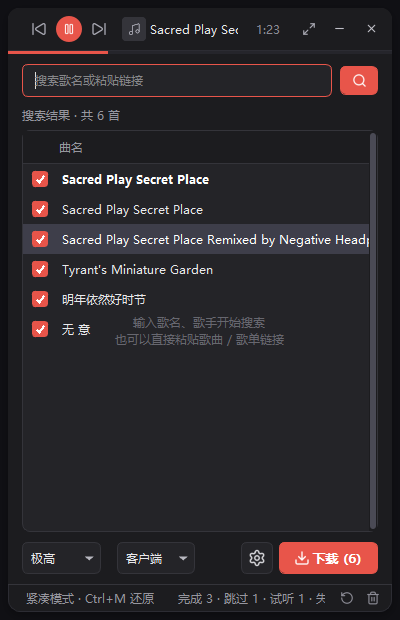
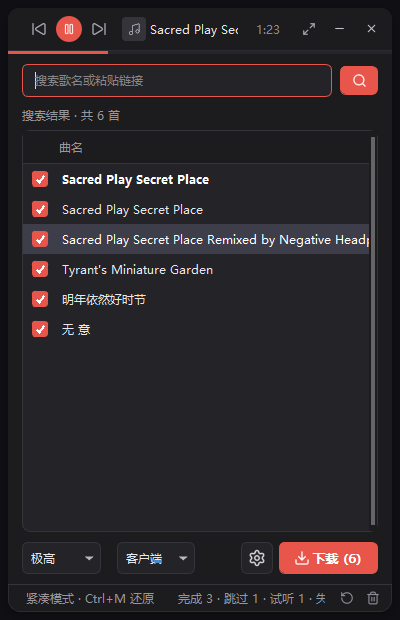
时长与音质拆列，滚动条改为悬停显现
- 时长列只放时长，新增音质列（仅缓存视图有数据时显示）
- 竖向滚动条平时近透明、悬停显现，避免「贯穿表格的竖线」
- 表格重填时同步刷新空状态提示
- 版本 1.1.1

Changed region(s): [[0.9, 0.2145, 0.96, 0.8581], [0.3, 0.4903, 0.72, 0.5823]]

diff --git a/gui/main.py b/gui/main.py
@@ -94,7 +94,7 @@ from gui.table import FluidTable
 from gui.player import PlayerEngine, TopBar
 from gui.workers import BatchTask, Task
 
-HEADERS = ["", "曲名", "艺人", "专辑", "时长"]
+HEADERS = ["", "曲名", "艺人", "专辑", "时长", "音质"]
 
 log = logging.getLogger("ncm.gui")
 
@@ -1149,7 +1149,7 @@ class MainWindow(QMainWindow):
             if item_song.id not in (previous, self._playing_id):
                 continue
             active = item_song.id == self._playing_id
-            for col in range(5):
+            for col in range(6):
                 cell = self.result_table.item(row, col)
                 if cell is not None:
                     cell.setBackground(
@@ -1387,19 +1387,21 @@ class MainWindow(QMainWindow):
         layout.addLayout(info_row)
 
         # 所有列都能拖动；窗口变宽时余量给曲名（见 FluidTable）
-        self.result_table = FluidTable(0, 5, fluid_col=1)
+        self.result_table = FluidTable(0, 6, fluid_col=1)
         self.result_table.setHorizontalHeaderLabels(HEADERS)
         self._style_table(self.result_table)
         header = self.result_table.horizontalHeader()
         header.setSectionResizeMode(0, QHeaderView.Fixed)
         header.setSectionResizeMode(4, QHeaderView.Fixed)
+        header.setSectionResizeMode(5, QHeaderView.Fixed)
         self.result_table.setColumnWidth(0, 30)
         self.result_table.setColumnWidth(1, 300)
         self.result_table.setColumnWidth(2, 160)
         self.result_table.setColumnWidth(3, 200)
-        # 缓存视图下时长列带档位（如 3:48 · 320k），需要更宽
-        self.result_table.setColumnWidth(4, 88)
-        self._align_header(self.result_table, {4})
+        # 时长与音质分开：挤在一列时右对齐会把时长截掉，只剩「320k」
+        self.result_table.setColumnWidth(4, 64)
+        self.result_table.setColumnWidth(5, 70)
+        self._align_header(self.result_table, {4, 5})
         # 排序挂在表头：点第一列切全选，点其余列排序（升 → 降 → 取消）
         header.setSectionsClickable(True)
         header.setSortIndicatorShown(False)
@@ -1780,6 +1782,8 @@ class MainWindow(QMainWindow):
 
     def _apply_view(self) -> None:
         """按当前关键词与排序方式，把当前音源的数据渲染到表格。"""
+        # 音质只有缓存视图知道（来自 .uc 文件名），其它视图藏起来，别留空列
+        self.result_table.setColumnHidden(5, self._current_source() != "cache")
         pool = self._pool()
         if pool is None:
             self.songs = []
@@ -2191,6 +2195,9 @@ class MainWindow(QMainWindow):
 
     def _fill_result_table(self) -> None:
         table = self.result_table
+        # 音质列只在真的有数据时显示：别的音源没有码率信息，留个空列很难看
+        has_rate = any(self._cache_rates.get(song.id) for song in self.songs)
+        table.setColumnHidden(5, not has_rate)
         table.blockSignals(True)
         table.setRowCount(len(self.songs))
         for row, song in enumerate(self.songs):
@@ -2213,15 +2220,21 @@ class MainWindow(QMainWindow):
             album.setToolTip(song.album)
             table.setItem(row, 3, album)
 
-            rate = self._cache_rates.get(song.id)
-            text = f"{song.duration_text} · {rate}" if rate else song.duration_text
-            duration = QTableWidgetItem(text)
+            duration = QTableWidgetItem(song.duration_text)
             duration.setForeground(QColor(MUTED))
             duration.setTextAlignment(Qt.AlignRight | Qt.AlignVCenter)
             table.setItem(row, 4, duration)
 
+            # 音质单列：只有缓存视图知道码率，其它视图留空
+            rate_text = self._cache_rates.get(song.id, "")
+            quality = QTableWidgetItem(rate_text)
+            quality.setForeground(QColor(MUTED))
+            quality.setTextAlignment(Qt.AlignRight | Qt.AlignVCenter)
+            quality.setToolTip(f"缓存音质 {rate_text}" if rate_text else "")
+            table.setItem(row, 5, quality)
+
             if song.id == self._playing_id:
-                for col in range(5):
+                for col in range(6):
                     cell = table.item(row, col)
                     if cell is not None:
                         cell.setBackground(QColor("#2c2c36"))
@@ -2230,6 +2243,9 @@ class MainWindow(QMainWindow):
                 bold.setBold(True)
                 name.setFont(bold)
         table.blockSignals(False)
+        # 表格内容变了，空状态提示也要跟着收/放，否则会压在行上面
+        if hasattr(self, "empty_hint"):
+            self._update_empty_hint()
 
     def _set_all(self, checked: bool) -> None:
         self.result_table.blockSignals(True)

diff --git a/gui/style.py b/gui/style.py
@@ -227,17 +227,23 @@ QWidget#barHolder {{
 }}
 
 QScrollBar:vertical {{
+    /* 平时几乎看不见：内容只多出一两行时滑块本来就接近满长，
+       画成实心就成了「一根贯穿表格的竖线」。悬停时才显现。 */
     background: transparent;
     width: 8px;
-    margin: 2px 1px;
+    margin: 6px 2px;
+    border-radius: 4px;
 }}
 QScrollBar::handle:vertical {{
-    background: #4a4a55;
+    background: rgba(255, 255, 255, 0.09);
     border-radius: 3px;
-    min-height: 28px;
+    min-height: 24px;
 }}
-QScrollBar::handle:vertical:hover {{
-    background: #5e5e6c;
+QScrollBar:hover::handle:vertical {{
+    background: rgba(255, 255, 255, 0.26);
+}}
+QScrollBar::handle:vertical:pressed {{
+    background: rgba(255, 255, 255, 0.36);
 }}
 QScrollBar::add-line:vertical, QScrollBar::sub-line:vertical,
 QScrollBar::add-page:vertical, QScrollBar::sub-page:vertical {{

diff --git a/ncm/__init__.py b/ncm/__init__.py
@@ -1,7 +1,7 @@
 """网易云音乐下载工具核心包。"""
 from __future__ import annotations
 
-__version__ = "1.1.0"
+__version__ = "1.1.1"
 
 from .backend import Backend, BackendError, LocalBackend
 from .models import AudioSource, Playlist, Song

diff --git a/CHANGELOG.md b/CHANGELOG.md
@@ -1,5 +1,16 @@
 # 版本记录
 
+## v1.1.1 — 2026-11-05
+
+### 优化
+
+- **时长与音质拆成两列**：原来拼成 `3:48 · 320k` 挤在 88px 里右对齐，时长被截掉只剩
+  「320k」。现在「时长」只放时长，「音质」单独一列，且只在该音源真的有码率信息时显示
+  （非缓存视图自动隐藏，不留空列）。
+- **竖向滚动条改为悬停显现**：内容只多出一两行时滑块本来就接近满长，配上透明槽就成了
+  「一根贯穿表格的竖线」。改成平时几乎透明、鼠标移上去才显现，并给滑块上下留白。
+- 表格重新填充时同步刷新空状态提示，避免提示文字压在列表行上。
+
 ## v1.1.0 — 2026-11-05
 
 ### 修复
